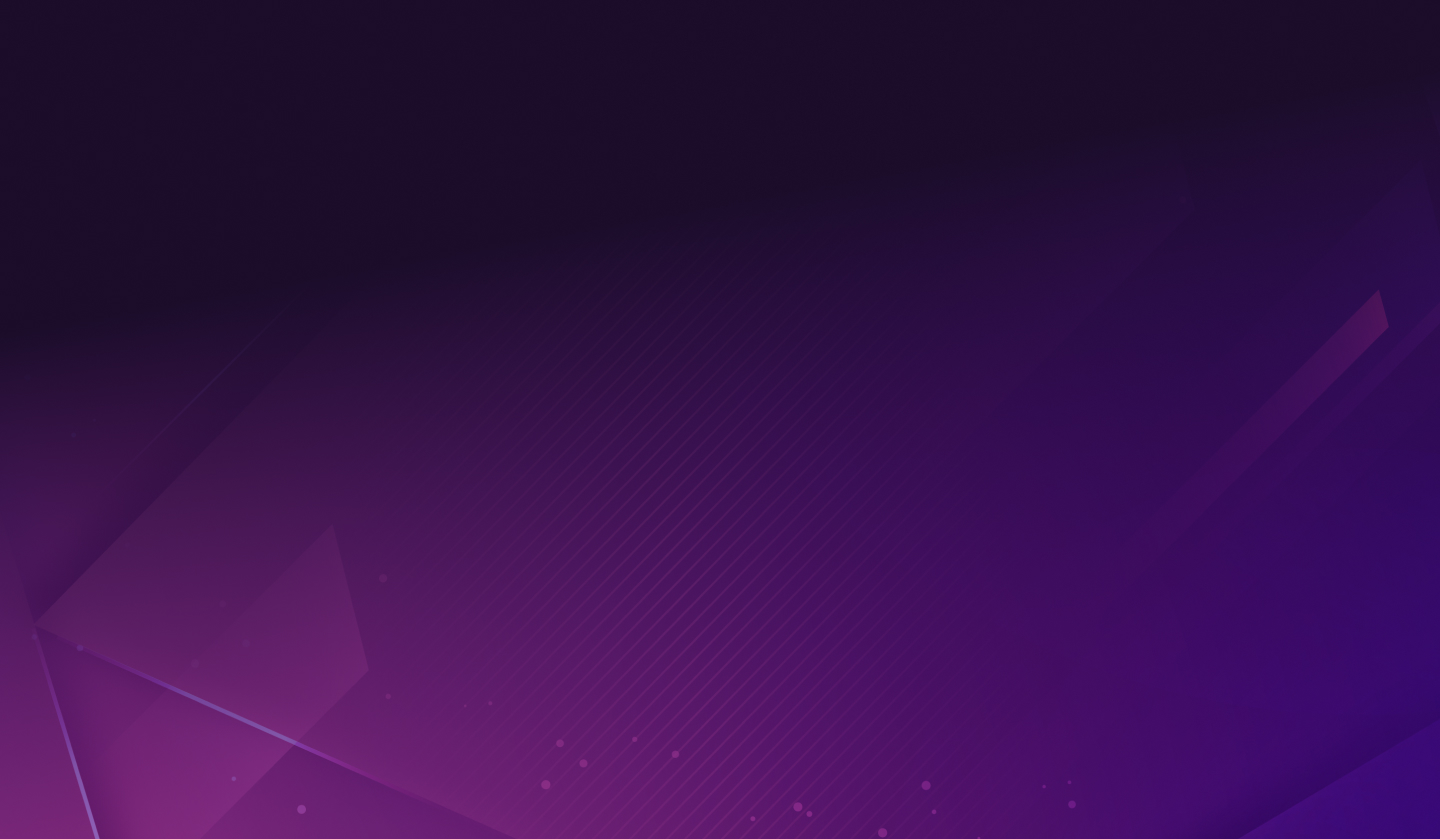
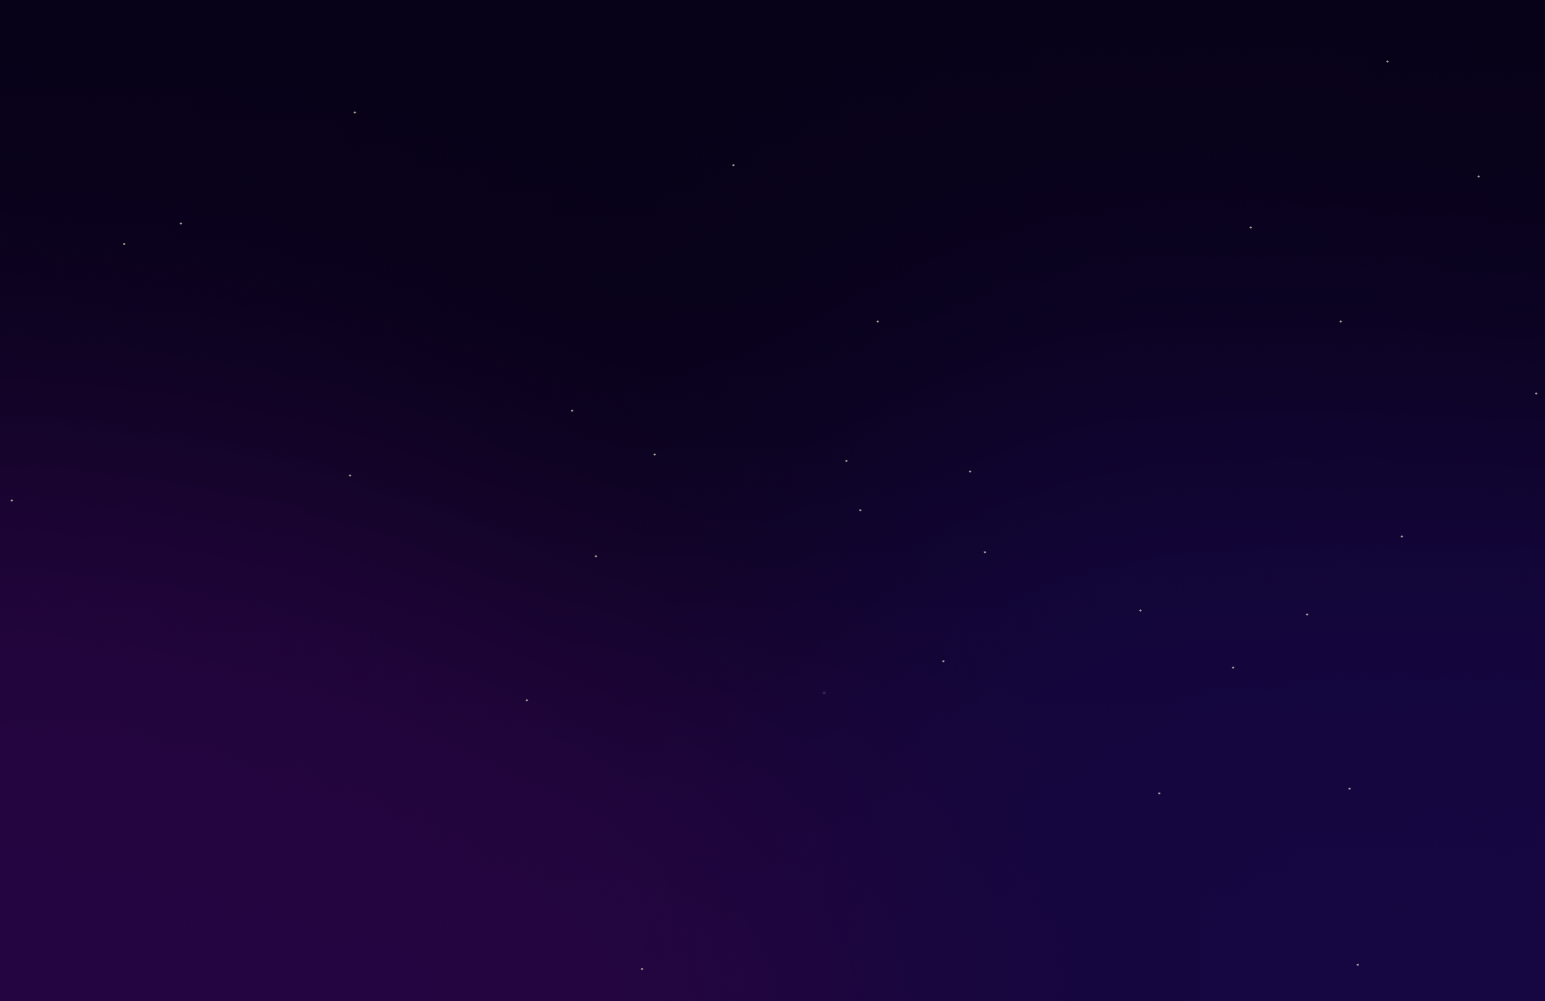
background rehaul

diff --git a/packages/web/components/MegaMenu/DesktopNavLinks.tsx b/packages/web/components/MegaMenu/DesktopNavLinks.tsx
@@ -128,7 +128,7 @@ export const DesktopNavLinks: React.FC<FlexProps> = (props) => {
                     h="full"
                     borderBottom={
                       router?.pathname.includes(section.label)
-                        ? '3px solid #79F8FB'
+                        ? '3px solid #a48df3'
                         : ''
                     }
                     alignItems="center"
@@ -144,7 +144,7 @@ export const DesktopNavLinks: React.FC<FlexProps> = (props) => {
                       textTransform="uppercase"
                       mx={{ lg: 3, xl: 6 }}
                       _expanded={{ color: 'cyan.300' }}
-                      _focus={{ outline: 'none', border: 'none' }}
+                      _focus={{ outline: 'none', border: 'none', textDecor: 'none' }}
                       rightIcon={
                         section.type === 'external-link' ? (
                           <ExternalLinkIcon color="white" />

diff --git a/packages/web/components/Landing/Intro.tsx b/packages/web/components/Landing/Intro.tsx
@@ -67,7 +67,9 @@ export const Intro: React.FC<LandingPageSectionProps> = ({
         alignItems="flex-start"
         justifyContent={{ base: 'flex-start', lg: 'center' }}
         pt={{ base: 0, xl: 14 }}
-        bg="linear-gradient(0deg, #140231 20%, rgba(19, 1, 49, 0.00) 40%);"
+        pl={{ base: 12 }}
+        pb={'5'}
+        bg="linear-gradient(0deg, #140231 5%, rgba(19, 1, 49, 0.00) 40%);"
         position="absolute"
         bottom="0"
         left="0"
@@ -137,7 +139,7 @@ export const Intro: React.FC<LandingPageSectionProps> = ({
                   colorScheme="blue"
                   textTransform="uppercase"
                   letterSpacing="0.1em"
-                  px={12}
+                  px={14}
                   size="lg"
                   fontSize="sm"
                   href="#wtf-is-a-metagame"

diff --git a/packages/web/pages/community/index.tsx b/packages/web/pages/community/index.tsx
@@ -94,9 +94,10 @@ const UnifiedCommunityPage: React.FC<Props> = ({
               {communityTabs.map(({ link }) => (
                 <Tab
                   key={`tab-${link}`}
+                  borderBottom="2px solid #1B0D2AE3"
                   _selected={{
-                    color: 'teal.200',
-                    borderBottom: '2px solid #81E6D9',
+                    color: '#a48df3',
+                    borderBottom: '2px solid #a48df3',
                   }}
                   w="100%"
                 >

diff --git a/packages/web/components/Container.tsx b/packages/web/components/Container.tsx
@@ -10,6 +10,7 @@ export const PageContainer: React.FC<FlexProps> = ({ children, ...props }) => (
     direction="column"
     align="center"
     pos="relative"
+    bgImage={''}
     {...props}
   >
     {children}
